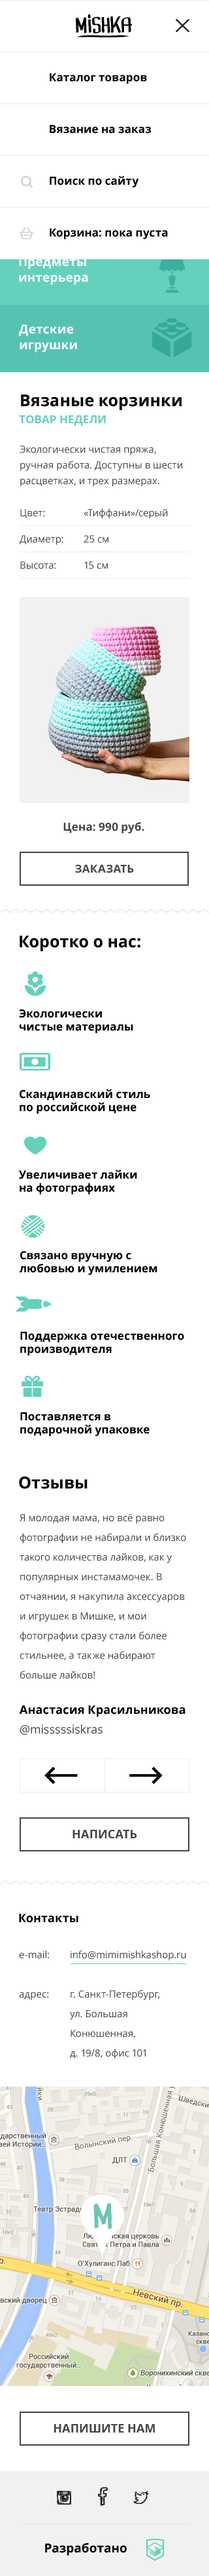
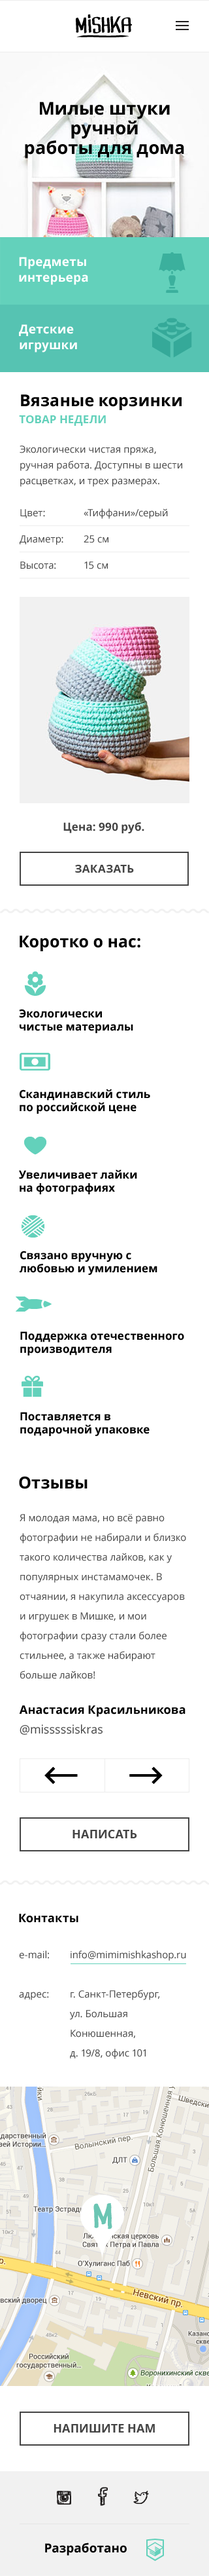
Сверстал адаптивные сетки блока description

Changed region(s): [[0.0, 0.031, 1.0, 0.1241]]

diff --git a/index.html b/index.html
@@ -59,74 +59,110 @@
     </nav>
   </header>
   <main>
-    <section class="description">
-      <div class="wrapper">
-        <h2 class="visually-hidden">Слоган</h2>
-        <ul class="description__list">
-          <li class="description__item">
+    <article class="description">
+      <section class="description__nav">
+        <div class="wrapper">
+          <h2 class="visually-hidden">Слоган</h2>
+          <ul class="description__list">
+            <li class="description__item">
+              <a href="catalog.html">
 
-          </li>
-          <li class="description__item">
+              </a>
+            </li>
+            <li class="description__item">
+              <a href="form.html">
 
-          </li>
-        </ul>
-        <p class="description__delivery-info"></p>
-        <p class="description__text"></p>
-      </div>
-    </section>
-    <section class="product-categories">
-      <h2 class="visually-hidden">Категории товаров</h2>
-      <div class="category-link  category-link--interior">
-        <a class="category-link__link" href="#">
-          <div class="wrapper">
-            <div class="category-link__text">
-              Предметы интерьера
-            </div>
+              </a>
+            </li>
+            <li class="description__item">
+              <a href="#">
+
+              </a>
+            </li>
+            <li class="description__item">
+              <a href="#">
+
+              </a>
+            </li>
+          </ul>
+          <div class="description__delivery-info">
+            <p class="description__delivery-text">
+
+            </p>
           </div>
-        </a>
-      </div>
-      <div class="category-link  category-link--toys">
-        <a class="category-link__link" href="#">
-          <div class="wrapper">
+        </div>
+      </section>
+      <section class="description__tagline">
+        <div class="wrapper">
+          <p class="description__text">
+
+          </p>
+        </div>
+      </section>
+      <section class="product-categories">
+        <h2 class="visually-hidden">Категории товаров</h2>
+        <div class="category-link  category-link--interior">
+          <a class="category-link__link" href="#">
             <div class="category-link__text">
-              Детские игрушки
+
             </div>
-          </div>
-        </a>
-      </div>
-    </section>
+          </a>
+        </div>
+        <div class="category-link  category-link--toys">
+          <a class="category-link__link" href="#">
+            <div class="category-link__text">
+
+            </div>
+          </a>
+        </div>
+      </section>
+    </article>
     <section class="product-of-the-week">
       <h2 class="visually-hidden">Товар недели</h2>
       <div class="wrapper">
-        <h2 class="product-of-the-week__name">Вязаные корзинки</h2>
-        <p class="product-of-the-week-mark">Товар недели</p>
+        <h2 class="product-of-the-week__name">
+
+        </h2>
+        <p class="product-of-the-week-mark">
+
+        </p>
         <p class="product-of-the-week__description">
-          Экологически чистая пряжа,
-          ручная работа. Доступны в шести
-          расцветках и трех размерах.
+
         </p>
         <table class="product-of-the-week__properties-table">
           <tr class="product-of-the-week__line">
-            <td>Цвет</td>
-            <td>«Тиффани»/серый</td>
+            <td>
+
+            </td>
+            <td>
+
+            </td>
           </tr>
           <tr class="product-of-the-week__line">
-            <td>Диаметр</td>
-            <td>25 см</td>
+            <td>
+
+            </td>
+            <td>
+
+            </td>
           </tr>
           <tr class="product-of-the-week__line">
-            <td>Высота</td>
-            <td>15 см</td>
+            <td>
+
+            </td>
+            <td>
+
+            </td>
           </tr>
         </table>
         <div class="product-of-the-week__photo">
-          <img src="img/triple-set-mobile@1x.jpg" width="260" height="315" alt="Фото товара недели">
+
         </div>
         <div class="product-of-the-week__price">
-          Цена: 990 руб
+
         </div>
         <div class="order-btn">
-          <a class="order-btn__link" href="#">Заказать</a>
+
         </div>
       </div>
     </section>

diff --git a/less/blocks/description.less b/less/blocks/description.less
@@ -1,18 +1,100 @@
 .description {
   width: 320px;
-  min-height: 283px;
+  min-height: 488px;
   margin: 0 auto;
-  padding-top: 74px;
-  .outline(big-block; darkred);
   font-family: "Open Sans", "Arial", sans-serif;
   font-size: 27px;
   font-weight: bold;
+  .outline(big-block; darkred);
+}
+
+.description__nav {
+  display: none;
+}
+
+.description__tagline {
+  min-height: 213px;
+  line-height: 30px;
+  padding-top: 70px;
+  .outline(big-block; darkred);
+}
+
+.description__text {
+  min-height: 90px;
+  .outline(small-block; green);
+}
+
+.description__delivery-info {
+  display: none;
 }
 
 @media @tablet-widths {
 
   .description {
+    padding-top: 0;
     width: 768px;
+    min-height: 750px;
+  }
+
+  .description__nav {
+    display: block;
+    min-height: 40px;
+    .clearfix();
+  }
+
+  .description__list {
+    float: left;
+    list-style: none;
+    width: 334px;
+    min-height: 23px;
+    padding-top: 17px;
+    .clearfix();
+    .outline(small-block; green);
+  }
+
+  .description__item {
+    width: 167px;
+    min-height: 24px;
+    .clearfix();
+    .outline(item; red);
+  }
+
+  .description__item:nth-child(1),
+  .description__item:nth-child(2) {
+    float: left;
+  }
+
+  .description__item:nth-child(3),
+  .description__item:nth-child(4) {
+    display: none;
+  }
+
+  .description__tagline {
+    padding-top: 116px;
+    min-height: 470px;
+  }
+
+  .description__text {
+    width: 550px;
+    min-height: 100px;
+    margin: 0 auto;
+  }
+
+  .description__delivery-info {
+    display: block;
+    float: right;
+    width: 334px;
+    min-height: 23px;
+    padding-top: 17px;
+    .clearfix();
+    .outline(small-block; green);
+  }
+
+  .description__delivery-text {
+    float: right;
+    width: 250px;
+    min-height: 24px;
+    .outline(item; red);
   }
 }
 
@@ -20,5 +102,35 @@
 
   .description {
     width: 1150px;
+  }
+
+  .description__list {
+    width: 700px;
+  }
+
+  .description__delivery-info {
+    width: 350px;
+  }
+
+  .description__item {
+    width: 175px;
+    margin-right: 45px;
+  }
+
+  .description__item:nth-child(1),
+  .description__item:nth-child(2) {
+    display: none;
+  }
+
+  .description__item:nth-child(3),
+  .description__item:nth-child(4) {
+    display: block;
+    float: left;
+  }
+
+  .description__text {
+    width: 700px;
+    min-height: 114px;
+    margin: 0 auto;
   }
 }

diff --git a/less/blocks/category-link.less b/less/blocks/category-link.less
@@ -1,10 +1,12 @@
 .category-link {
-  background-color: @bg-color;
+  min-height: 76px;
   padding-top: 27px;
-  padding-bottom: 32px;
+  background-color: @bg-color;
   font-family: "Open Sans", "Arial", sans-serif;
-  font-size: 24px;
+  font-size: 19px;
+  line-height: 24px;
   font-weight: bold;
+  .outline(big-block; darkred);
 }
 
 .category-link--interior {
@@ -21,4 +23,34 @@
 
 .category-link__text {
   color: #fff;
+  width: 170px;
+  min-height: 48px;
+  .outline(item; yellow);
+}
+
+@media @tablet-widths {
+  .category-link {
+    padding-top: 30px;
+    padding-left: 36px;
+    width: 298px;
+    min-height: 95px;
+  }
+
+  .category-link__text {
+    min-height: 60px;
+  }
+
+  .category-link--interior {
+    float: left;
+  }
+
+  .category-link--toys {
+    float: right;
+  }
+}
+
+@media @desktop-widths {
+  .category-link {
+    width: 489px;
+  }
 }

diff --git a/less/blocks/product-categories.less b/less/blocks/product-categories.less
@@ -2,3 +2,24 @@
   background-color: @bg-color;
   .outline(big-block; darkred);
 }
+
+.category-link {
+  width: 290px;
+  padding-left: 30px;
+}
+
+@media @tablet-widths {
+
+  .product-categories {
+    width: 668px;
+
+    margin: 0 auto;
+    .clearfix();
+  }
+}
+
+@media @desktop-widths {
+  .product-categories {
+    width: 1050px;
+  }
+}

diff --git a/less/blocks/main-nav.less b/less/blocks/main-nav.less
@@ -7,6 +7,10 @@
   min-height: 316px;
 }
 
+.main-nav--closed {
+    display: none;
+  }
+
 .main-nav__list {
   list-style: none;
 }

diff --git a/less/style.less b/less/style.less
@@ -47,9 +47,5 @@
   padding: 0;
 }
 
-.wrapper * {
-  visibility: hidden;
-}
-
 
 @import "global/outline.less";
